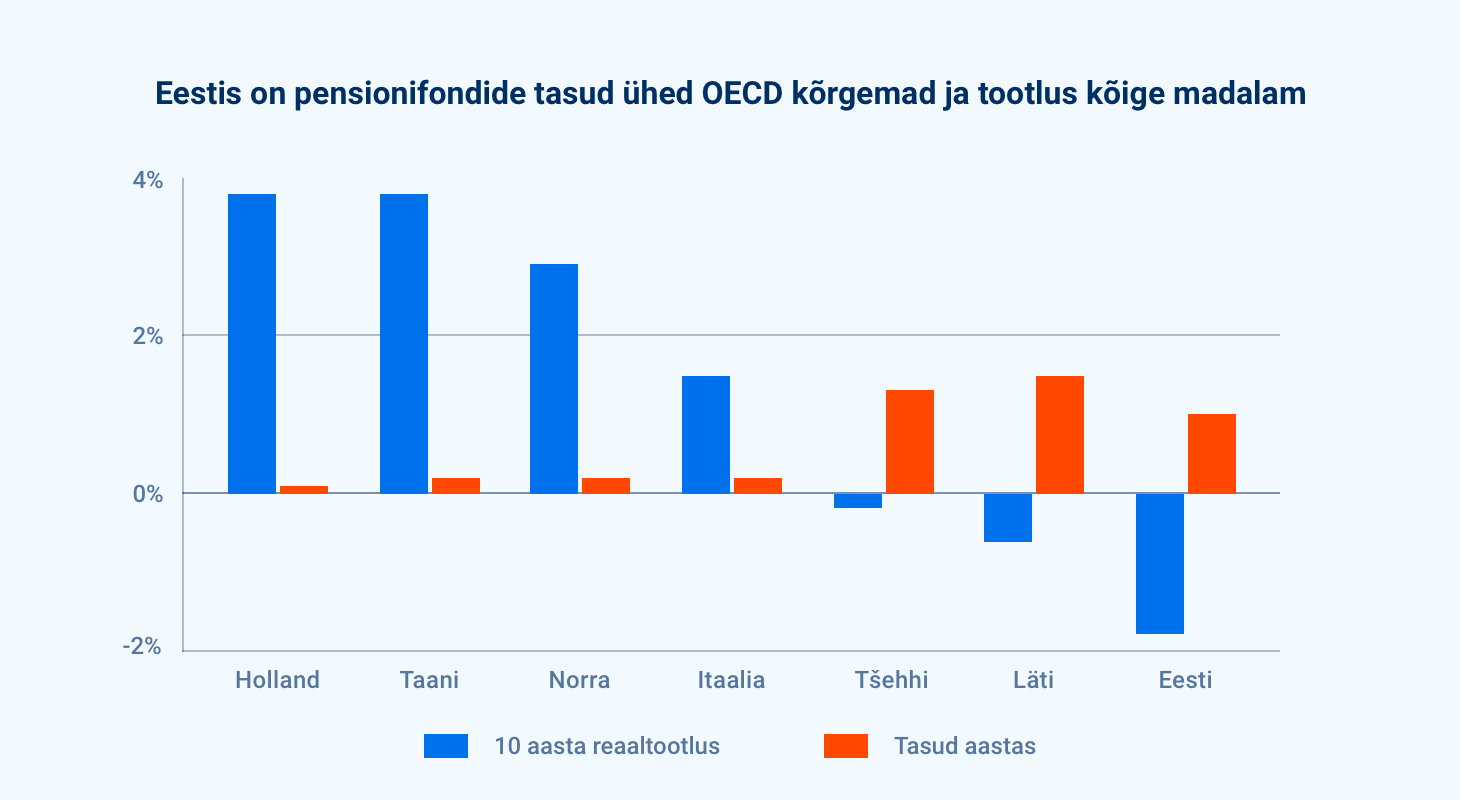
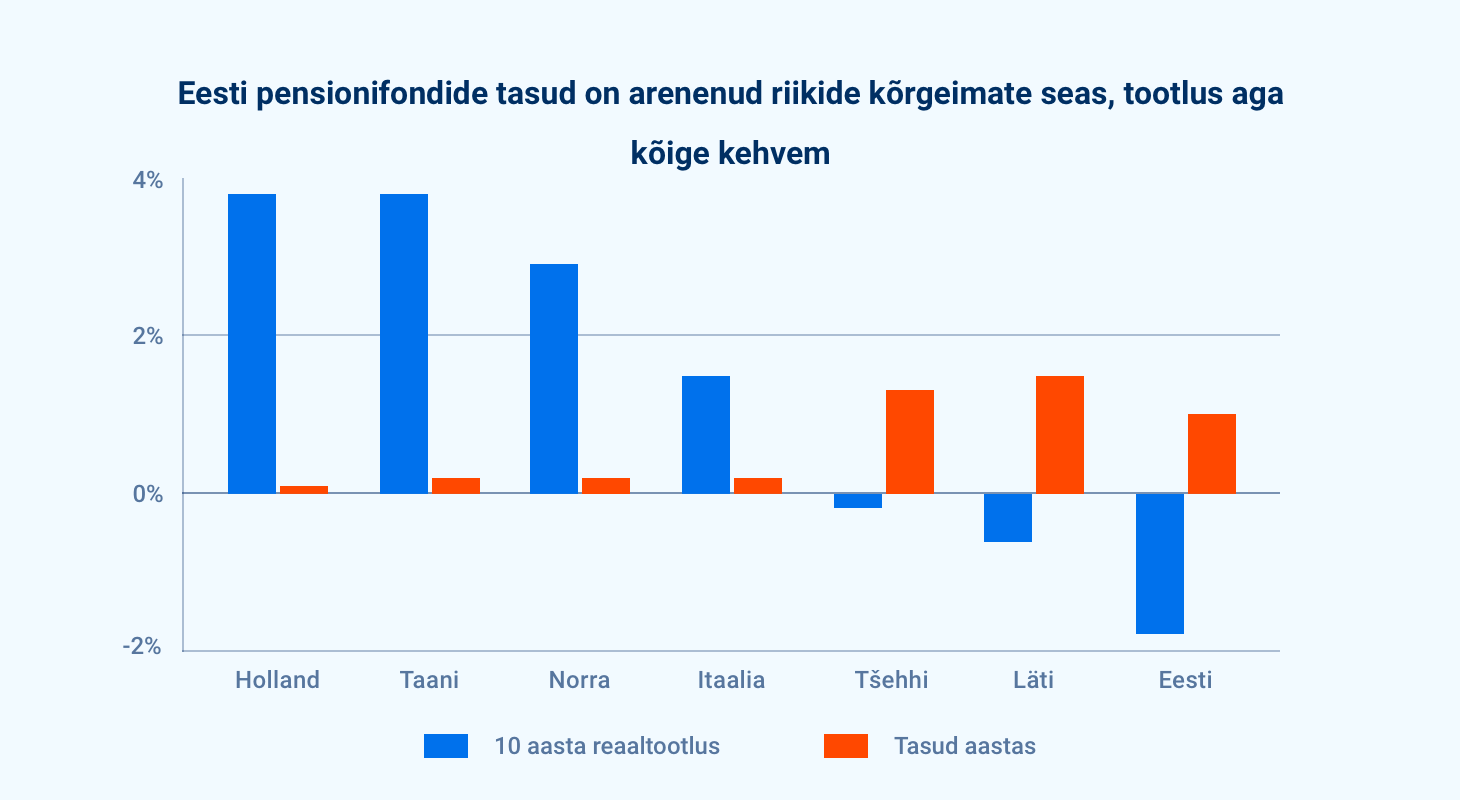
copy tweaks and graph updates

Changed region(s): [[0.0925, 0.0938, 0.8938, 0.2188]]

diff --git a/src/wp-content/themes/tuleva/templates/difference-content.php b/src/wp-content/themes/tuleva/templates/difference-content.php
@@ -32,7 +32,7 @@
                             <p>Asi on lihtsalt selles, et maailmamajanduse käekäik pole meie kontrolli all. Väärtpaberiturgude tõuse ja torme ette ennustada on üsna võimatu. Aga kulud on selge suurus: mida rohkem läheb tasudeks, seda vähem jääb sulle tulust, mida sinu raha turgudel teenib.</p>
 
                             <img src="<?php echo get_template_directory_uri() ?>/img/fig-principle-success-probability.png" class="img-fluid" alt="Odava tasuga fondid saavad parima tulemuse" />
-                            <cite class="d-block small text-secondary mt-3 mb-5">Allikas: Maailma suurima fondide analüüsi firma Morningstar <a href="http://news.morningstar.com/articlenet/article.aspx?id=752485" target="_blank">analüüs</a> USA investeerimisfondide 2010-2015 tulemuste põhjal.</cite>
+                            <cite class="d-block small text-secondary mt-3 mb-5">Allikas: Maailma suurima fondide analüüsi firma Morningstar <a href="http://news.morningstar.com/articlenet/article.aspx?id=752485" target="_blank">analüüs</a> USA investeerimisfondide 2010-2015 tulemuste põhjal. Edu tõnäosus näitab tõenäosust, millega fond saavutab investoritele keskmisest parema tulemuse.</cite>
 
                         </div>
                     </div>
